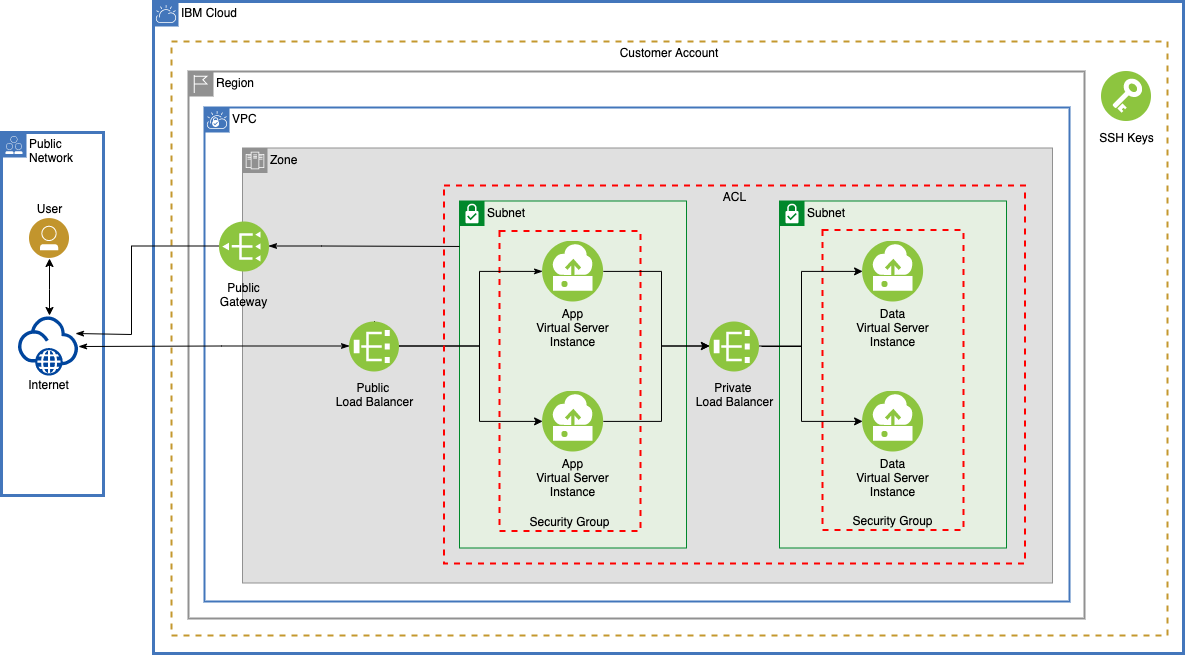
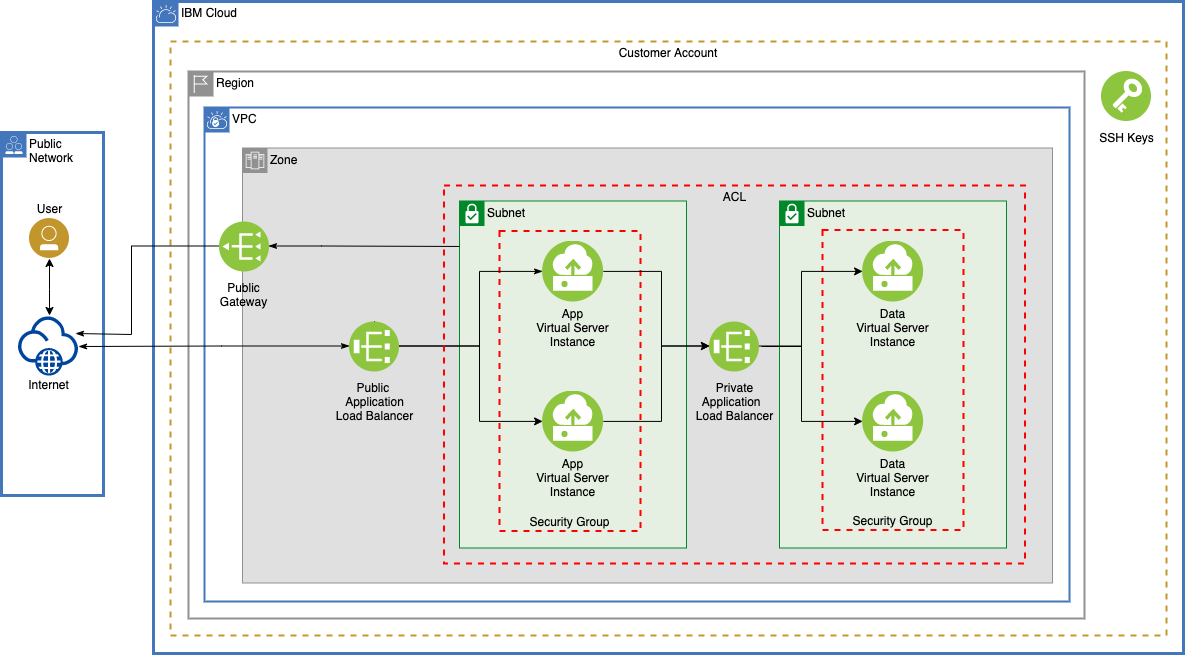
updated diagram

Changed region(s): [[0.5932, 0.5802, 0.6557, 0.6412], [0.4996, 0.0611, 0.6245, 0.0916], [0.281, 0.6107, 0.3435, 0.6412]]

diff --git a/README.md b/README.md
@@ -1,6 +1,6 @@
 ## Deploy Basic Networking for IBM Cloud VPC with Terraform
 
-Deploy a VPC with multiple subnets, public and private load balancers, ACLs, public gateway, and virtual servers with security groups using Terraform.
+Deploy a VPC with multiple subnets, public and private application load balancers, ACLs, public gateway, and virtual servers with security groups using Terraform.
 
 
 ### Architecture
